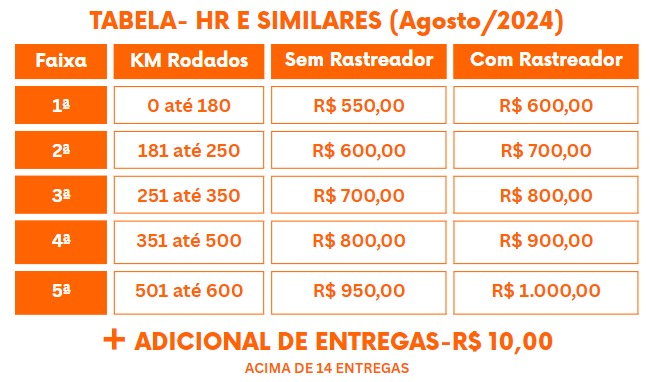
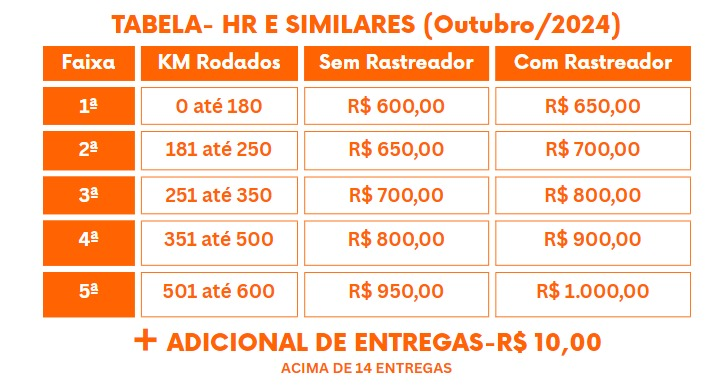
FEAT: new tables

diff --git a/src/whats/whats.service.ts b/src/whats/whats.service.ts
@@ -21,7 +21,7 @@ export class WhatsService {
     this.client = new Client({
       authStrategy: new LocalAuth(),
       puppeteer: {
-        executablePath: '/snap/bin/chromium',
+        // executablePath: '/snap/bin/chromium',
         headless: true,  
         args: [
           '--no-sandbox',
@@ -44,7 +44,7 @@ export class WhatsService {
     });
 
     this.client.on('ready', async () => {
-      console.log('Mix está pronta! (Black Friday) 2.1v');
+      console.log('Mix está pronta! 2.2v');
       // const allLabel  = await this.client.getLabels();
       // console.log(allLabel)
     });
@@ -55,7 +55,7 @@ export class WhatsService {
         // this.sendProposal(message)
         // return
         if(message.body.toLocaleLowerCase() == 'test'){
-          this.client.sendMessage(message.from, 'Estou funcionando! (Black Friday 2.1v)')
+          this.client.sendMessage(message.from, 'Estou funcionando! (Black Friday 2.2v)')
         }
         if(message.body == 'unread'){
           this.resolvingUnreadMessage(); // Mensagem para os não lidos
@@ -82,6 +82,7 @@ export class WhatsService {
       // if(message.id.remote !== '5511932291233@c.us'){
       //   return
       // }
+      
       const haveLabel = await this.client.getChatLabels(message.from);
       switch (haveLabel[0].id) {
           case '25':
@@ -494,27 +495,28 @@ export class WhatsService {
           await this.client.sendMessage(chatId, `atualmente não temos operações para carro 😞 \n\n mas assim que abri uma oportunidade, entraremos em contato 😀`);
           return
         case 'fiorino':
-          message = `🛻 *${response.result.typeVehicle.toLowerCase()}*\n*Centros de Distribuição (CD)*\naqui estão as operações que combinam com você\n\n*1-* Cajamar/SP *TABELA BLACK FRIDAY* \n\n*0-* Falar com atendente`
+          message = `🛻 *${response.result.typeVehicle.toLowerCase()}*\n*Centros de Distribuição (CD)*\naqui estão as operações que combinam com você\n\n*1-* Cajamar/SP \n\n*0-* Falar com atendente`
           await this.client.sendMessage(chatId, message);
           await this.updateConversationStateTwo(chatId, 'PRESENTATION');
           return
         case 'van':
-          message = `🚐 *${response.result.typeVehicle.toLowerCase()}*\n*Centros de Distribuição (CD)*\naqui estão as operações que combinam com você\n\n*1-* Cajamar/SP *TABELA BLACK FRIDAY*`
+          // message = `🚐 *${response.result.typeVehicle.toLowerCase()}*\n*Centros de Distribuição (CD)*\naqui estão as operações que combinam com você\n\n*1-* Cajamar/SP`
+          await this.client.sendMessage(chatId, `atualmente não temos operações para van 😞 \n\n mas assim que abri uma oportunidade, entraremos em contato 😀`);
           await this.client.sendMessage(chatId, message);
           await this.updateConversationStateTwo(chatId, 'PRESENTATION');
           return
         case 'hr':
-          message = `🚚 *${response.result.typeVehicle.toLowerCase()}*\n*Centros de Distribuição (CD)*\naqui estão as operações que combinam com você\n\n*1-* Cajamar/SP *TABELA BLACK FRIDAY*\n*2-* Uberlândia/MG\n*3-* Contagem/MG \n\n*0-* Falar com atendente`
+          message = `🚚 *${response.result.typeVehicle.toLowerCase()}*\n*Centros de Distribuição (CD)*\naqui estão as operações que combinam com você\n\n*1-* Cajamar/SP\n*2-* Uberlândia/MG\n*3-* Contagem/MG \n\n*0-* Falar com atendente`
           await this.client.sendMessage(chatId, message);
           await this.updateConversationStateTwo(chatId, 'PRESENTATION');
           return
         case 'vuc':
-          message = `🚚 *${response.result.typeVehicle.toLowerCase()}*\n*Centros de Distribuição (CD)*\naqui estão as operações que combinam com você\n\n*1-* Cajamar/SP *TABELA BLACK FRIDAY*\n*2-* Barueri/SP *TABELA BLACK FRIDAY*\n*3-* Uberlândia/MG\n*4-* Contagem/MG \n\n*0-* Falar com atendente`
+          message = `🚚 *${response.result.typeVehicle.toLowerCase()}*\n*Centros de Distribuição (CD)*\naqui estão as operações que combinam com você\n\n*1-* Cajamar/SP\n*2-* Barueri/SP\n*3-* Uberlândia/MG\n*4-* Contagem/MG \n\n*0-* Falar com atendente`
           await this.client.sendMessage(chatId, message);
           await this.updateConversationStateTwo(chatId, 'PRESENTATION');
           return;
         case '3/4':
-          message = `🚚 *${response.result.typeVehicle.toLowerCase()}*\n*Centros de Distribuição (CD)*\naqui estão as operações que combinam com você\n\n*1-* Barueri/SP *TABELA BLACK FRIDAY*\n*2-* Contagem/MG\n*3-* Uberlândia/MG\n\n*0-* Falar com atendente`
+          message = `🚚 *${response.result.typeVehicle.toLowerCase()}*\n*Centros de Distribuição (CD)*\naqui estão as operações que combinam com você\n\n*1-* Barueri/SP\n\n*0-* Falar com atendente`
           await this.client.sendMessage(chatId, message);
           await this.updateConversationStateTwo(chatId, 'PRESENTATION');
           return
@@ -580,7 +582,7 @@ export class WhatsService {
             await this.client.sendMessage(chatId, sendMessage);
             sendMessage = `*Pagamento*\n\n*1° Quinzena, considera o período ( 01 a 15)*\n🤑 Paga dia 02 do mês subsequente\n\n*2° Quinzena, considera o período ( 16 a 31)*\n💸 Paga dia 16 do mês subsequente`
             await this.client.sendMessage(chatId, sendMessage);
-            imagePath =  `table/fastshop/black/fiorino-black.jpeg`;
+            imagePath =  `table/fastshop/cajamar-fiorino.jpeg`;
             media = MessageMedia.fromFilePath(imagePath);
             audioApresentationPath = `table/fastshop/cajamar-audio/apresentação.ogg`
             mediaApresentation = MessageMedia.fromFilePath(audioApresentationPath);
@@ -606,27 +608,27 @@ export class WhatsService {
         break
       case 'van':
         switch (message) {
-          case '1':
-            sendMessage = `*Cajamar/SP*\n\n🚪 Operação: porta a porta\n📍 Local: Cajamar/SP\n🕑 Período: Segunda a Sábado\n🚚 Carregamento: 5:00h  \n🚧 Pedágio: reembolso pedágio no sem parar.\n📦 Produto: eletrônico/eletrodomésticos`
-            await this.client.sendMessage(chatId, sendMessage);
-            sendMessage = `*Benefícios*\n\n☕ café da manhã\n📱 App\n💰 Adiantamento\n⛽ Convênio Posto`
-            await this.client.sendMessage(chatId, sendMessage);
-            sendMessage = `*Pagamento*\n\n*1° Quinzena, considera o período ( 01 a 15)* Paga dia 02 do mês subsequente\n*2° Quinzena, considera o período ( 16 a 31)* Paga dia 16 do mês subsequente`
-            await this.client.sendMessage(chatId, sendMessage);
-            imagePath =  `table/fastshop/black/van-black.jpeg`;
-            media = MessageMedia.fromFilePath(imagePath);
-            audioApresentationPath = `table/fastshop/cajamar-audio/apresentação.ogg`
-            mediaApresentation = MessageMedia.fromFilePath(audioApresentationPath);
-            audioQuestionPath = `table/fastshop/cajamar-audio/duvidas.ogg`
-            mediaQuestion     = MessageMedia.fromFilePath(audioQuestionPath);
-            await this.client.sendMessage(chatId, media);
-            await this.client.sendMessage(chatId, mediaApresentation);
-            await this.client.sendMessage(chatId, mediaQuestion);
-            sendMessage = `*Pré-requisitos*\n\n✅ *Ajudante* (+ 18 Anos) \n\n*2-* aceitar \n*1-* voltar as operações\n\n*0-* Falar com suporte`
-            // sendMessage = `*Pré-requisitos*\n\n✅ *Altura interna Baú 2,10* \n✅ *Ajudante* (+ 18 Anos)\n✅ *Carrinho para Entrega*\n✅ Veículo precisa de instalação *EVA/Espaguete*\n \n\n*2-* aceitar \n*1-* voltar as operações\n\n*0-* Falar com suporte`
-            await this.client.sendMessage(chatId, sendMessage);
-            await this.updateConversationStateTwo(chatId, 'DECISION_PROPOSAL');
-            return;
+          // case '1':
+          //   sendMessage = `*Cajamar/SP*\n\n🚪 Operação: porta a porta\n📍 Local: Cajamar/SP\n🕑 Período: Segunda a Sábado\n🚚 Carregamento: 5:00h  \n🚧 Pedágio: reembolso pedágio no sem parar.\n📦 Produto: eletrônico/eletrodomésticos`
+          //   await this.client.sendMessage(chatId, sendMessage);
+          //   sendMessage = `*Benefícios*\n\n☕ café da manhã\n📱 App\n💰 Adiantamento\n⛽ Convênio Posto`
+          //   await this.client.sendMessage(chatId, sendMessage);
+          //   sendMessage = `*Pagamento*\n\n*1° Quinzena, considera o período ( 01 a 15)* Paga dia 02 do mês subsequente\n*2° Quinzena, considera o período ( 16 a 31)* Paga dia 16 do mês subsequente`
+          //   await this.client.sendMessage(chatId, sendMessage);
+          //   imagePath =  `table/fastshop/black/van-black.jpeg`;
+          //   media = MessageMedia.fromFilePath(imagePath);
+          //   audioApresentationPath = `table/fastshop/cajamar-audio/apresentação.ogg`
+          //   mediaApresentation = MessageMedia.fromFilePath(audioApresentationPath);
+          //   audioQuestionPath = `table/fastshop/cajamar-audio/duvidas.ogg`
+          //   mediaQuestion     = MessageMedia.fromFilePath(audioQuestionPath);
+          //   await this.client.sendMessage(chatId, media);
+          //   await this.client.sendMessage(chatId, mediaApresentation);
+          //   await this.client.sendMessage(chatId, mediaQuestion);
+          //   sendMessage = `*Pré-requisitos*\n\n✅ *Ajudante* (+ 18 Anos) \n\n*2-* aceitar \n*1-* voltar as operações\n\n*0-* Falar com suporte`
+          //   // sendMessage = `*Pré-requisitos*\n\n✅ *Altura interna Baú 2,10* \n✅ *Ajudante* (+ 18 Anos)\n✅ *Carrinho para Entrega*\n✅ Veículo precisa de instalação *EVA/Espaguete*\n \n\n*2-* aceitar \n*1-* voltar as operações\n\n*0-* Falar com suporte`
+          //   await this.client.sendMessage(chatId, sendMessage);
+          //   await this.updateConversationStateTwo(chatId, 'DECISION_PROPOSAL');
+          //   return;
       //     case '':
       //       sendMessage = `*Vila Leopoldina/SP*\n\n🍽 *Operação:* Restaurantes\n📍 *Local:* Vila Leopoldina/SP\n🕑 *Período:* Segunda a Sábado\n🚚 *Carregamento:* Por agenda\n📦 *Produto:* Alimentos`
       //       await this.client.sendMessage(chatId, sendMessage);
@@ -669,7 +671,7 @@ export class WhatsService {
             await this.client.sendMessage(chatId, sendMessage);
             sendMessage = `*Pagamento*\n\n*1° Quinzena, considera o período ( 01 a 15)* Paga dia 02 do mês subsequente\n*2° Quinzena, considera o período ( 16 a 31)* Paga dia 16 do mês subsequente`
             await this.client.sendMessage(chatId, sendMessage);
-            imagePath =  `table/fastshop/black/hr-black.jpeg`;
+            imagePath =  `table/fastshop/cajamar-hr.jpeg`;
             media = MessageMedia.fromFilePath(imagePath);
             audioApresentationPath = `table/fastshop/cajamar-audio/apresentação.ogg`
             mediaApresentation = MessageMedia.fromFilePath(audioApresentationPath);
@@ -730,7 +732,7 @@ export class WhatsService {
             await this.client.sendMessage(chatId, sendMessage);
             sendMessage = `*Pagamento*\n\n*1° Quinzena, considera o período ( 01 a 15)* Paga dia 02 do mês subsequente\n*2° Quinzena, considera o período ( 16 a 31)* Paga dia 16 do mês subsequente`
             await this.client.sendMessage(chatId, sendMessage);
-            imagePath =  `table/fastshop/black/vuc-black.jpeg`;
+            imagePath =  `table/fastshop/cajamar-vuc.jpeg`;
             media = MessageMedia.fromFilePath(imagePath);
             audioApresentationPath = `table/fastshop/cajamar-audio/apresentação.ogg`
             mediaApresentation = MessageMedia.fromFilePath(audioApresentationPath);
@@ -748,7 +750,7 @@ export class WhatsService {
             await this.client.sendMessage(chatId, sendMessage);
             sendMessage = `*Pagamento*\n\n*1° Quinzena, considera o período ( 01 a 15)* \n💰 Paga dia 02 do mês subsequente\n\n*2° Quinzena, considera o período ( 16 a 31)*\n💰 Paga dia 16 do mês subsequente`
             await this.client.sendMessage(chatId, sendMessage);
-            imagePath =  `table/americanas/black/34-vuc-black.jpeg`;
+            imagePath =  `table/americanas/vuc.jpeg`;
             media = MessageMedia.fromFilePath(imagePath);
             await this.client.sendMessage(chatId, media);
             sendMessage = `*3-* aceitar \n*1-* voltar as operações\n\n*0-* Falar com atendente`
@@ -801,41 +803,41 @@ export class WhatsService {
             await this.client.sendMessage(chatId, sendMessage);
             sendMessage = `*Pagamento*\n\n*1° Quinzena, considera o período ( 01 a 15)* \n💰 Paga dia 02 do mês subsequente\n\n*2° Quinzena, considera o período ( 16 a 31)*\n💰 Paga dia 16 do mês subsequente`
             await this.client.sendMessage(chatId, sendMessage);
-            imagePath =  `table/americanas/black/34-vuc-black.jpeg`;
+            imagePath =  `table/americanas/34.jpeg`;
             media = MessageMedia.fromFilePath(imagePath);
             await this.client.sendMessage(chatId, media);
             sendMessage = `*3-* aceitar \n*1-* voltar as operações\n\n*0-* Falar com atendente`
             await this.client.sendMessage(chatId, sendMessage);
             await this.updateConversationStateTwo(chatId, 'DECISION_PROPOSAL');
             break;
-          case '2':
-            sendMessage = `*Contagem/MG*\n\n🚪 Operação: porta a porta\n📍 Local: Contagem/MG\n🕑 Período: Segunda a Sábado\n🚚 Carregamento: 5:00h  \n🚧 Pedágio: reembolso pedágio no sem parar.\n📦 Produto: eletrônico/eletrodomésticos`
-            await this.client.sendMessage(chatId, sendMessage);
-            sendMessage = `*Benefícios*\n\n☕ café da manhã\n📱 App\n💰 Adiantamento`
-            await this.client.sendMessage(chatId, sendMessage);
-            sendMessage = `*Pagamento*\n\n*1° Quinzena, considera o período ( 01 a 15)* Paga dia 02 do mês subsequente\n*2° Quinzena, considera o período ( 16 a 31)* Paga dia 16 do mês subsequente`
-            await this.client.sendMessage(chatId, sendMessage);
-            imagePath =  `table/fastshop/uberlandia-contagem-vuc-hr.jpeg`;
-            media = MessageMedia.fromFilePath(imagePath);
-            await this.client.sendMessage(chatId, media);
-            sendMessage = `*Pré-requisitos*\n\n✅ *Comprimentro menor* de 5,00 \n✅ *Ajudante* (+ 18 Anos)\n✅ *Carrinho para Entrega*\n✅ Veículo precisa de instalação *EVA/Espaguete*\n \n\n*2-* aceitar \n*1-* voltar as operações\n\n*0-* Falar com suporte`
-            await this.client.sendMessage(chatId, sendMessage);
-            await this.updateConversationStateTwo(chatId, 'DECISION_PROPOSAL');
-            break;
-          case '3':
-            sendMessage = `*Uberlândia/MG*\n\n🚪 Operação: porta a porta\n📍 Local: Uberlândia/MG\n🕑 Período: Segunda a Sábado\n🚚 Carregamento: 5:00h  \n🚧 Pedágio: reembolso pedágio no sem parar.\n📦 Produto: eletrônico/eletrodomésticos`
-            await this.client.sendMessage(chatId, sendMessage);
-            sendMessage = `*Benefícios*\n\n☕ café da manhã\n📱 App\n💰 Adiantamento`
-            await this.client.sendMessage(chatId, sendMessage);
-            sendMessage = `*Pagamento*\n\n*1° Quinzena, considera o período ( 01 a 15)* Paga dia 02 do mês subsequente\n*2° Quinzena, considera o período ( 16 a 31)* Paga dia 16 do mês subsequente`
-            await this.client.sendMessage(chatId, sendMessage);
-            imagePath =  `table/fastshop/uberlandia-contagem-vuc-hr.jpeg`;
-            media = MessageMedia.fromFilePath(imagePath);
-            await this.client.sendMessage(chatId, media);
-            sendMessage = `*Pré-requisitos*\n\n✅ *Comprimentro menor* de 5,00\n✅ *Ajudante* (+ 18 Anos)\n✅ *Carrinho para Entrega*\n✅ Veículo precisa de instalação *EVA/Espaguete*\n \n\n*2-* aceitar \n*1-* voltar as operações\n\n*0-* Falar com suporte`
-            await this.client.sendMessage(chatId, sendMessage);
-            await this.updateConversationStateTwo(chatId, 'DECISION_PROPOSAL');
-            break;
+          // case '2':
+          //   sendMessage = `*Contagem/MG*\n\n🚪 Operação: porta a porta\n📍 Local: Contagem/MG\n🕑 Período: Segunda a Sábado\n🚚 Carregamento: 5:00h  \n🚧 Pedágio: reembolso pedágio no sem parar.\n📦 Produto: eletrônico/eletrodomésticos`
+          //   await this.client.sendMessage(chatId, sendMessage);
+          //   sendMessage = `*Benefícios*\n\n☕ café da manhã\n📱 App\n💰 Adiantamento`
+          //   await this.client.sendMessage(chatId, sendMessage);
+          //   sendMessage = `*Pagamento*\n\n*1° Quinzena, considera o período ( 01 a 15)* Paga dia 02 do mês subsequente\n*2° Quinzena, considera o período ( 16 a 31)* Paga dia 16 do mês subsequente`
+          //   await this.client.sendMessage(chatId, sendMessage);
+          //   imagePath =  `table/fastshop/uberlandia-contagem-vuc-hr.jpeg`;
+          //   media = MessageMedia.fromFilePath(imagePath);
+          //   await this.client.sendMessage(chatId, media);
+          //   sendMessage = `*Pré-requisitos*\n\n✅ *Comprimentro menor* de 5,00 \n✅ *Ajudante* (+ 18 Anos)\n✅ *Carrinho para Entrega*\n✅ Veículo precisa de instalação *EVA/Espaguete*\n \n\n*2-* aceitar \n*1-* voltar as operações\n\n*0-* Falar com suporte`
+          //   await this.client.sendMessage(chatId, sendMessage);
+          //   await this.updateConversationStateTwo(chatId, 'DECISION_PROPOSAL');
+          //   break;
+          // case '3':
+          //   sendMessage = `*Uberlândia/MG*\n\n🚪 Operação: porta a porta\n📍 Local: Uberlândia/MG\n🕑 Período: Segunda a Sábado\n🚚 Carregamento: 5:00h  \n🚧 Pedágio: reembolso pedágio no sem parar.\n📦 Produto: eletrônico/eletrodomésticos`
+          //   await this.client.sendMessage(chatId, sendMessage);
+          //   sendMessage = `*Benefícios*\n\n☕ café da manhã\n📱 App\n💰 Adiantamento`
+          //   await this.client.sendMessage(chatId, sendMessage);
+          //   sendMessage = `*Pagamento*\n\n*1° Quinzena, considera o período ( 01 a 15)* Paga dia 02 do mês subsequente\n*2° Quinzena, considera o período ( 16 a 31)* Paga dia 16 do mês subsequente`
+          //   await this.client.sendMessage(chatId, sendMessage);
+          //   imagePath =  `table/fastshop/uberlandia-contagem-vuc-hr.jpeg`;
+          //   media = MessageMedia.fromFilePath(imagePath);
+          //   await this.client.sendMessage(chatId, media);
+          //   sendMessage = `*Pré-requisitos*\n\n✅ *Comprimentro menor* de 5,00\n✅ *Ajudante* (+ 18 Anos)\n✅ *Carrinho para Entrega*\n✅ Veículo precisa de instalação *EVA/Espaguete*\n \n\n*2-* aceitar \n*1-* voltar as operações\n\n*0-* Falar com suporte`
+          //   await this.client.sendMessage(chatId, sendMessage);
+          //   await this.updateConversationStateTwo(chatId, 'DECISION_PROPOSAL');
+          //   break;
           case '0':
             await this.client.sendMessage(chatId,'os nossos atendentes vão continuar com o seu atendimento 🤩')
             await this.client.addOrRemoveLabels([], [chatId])
